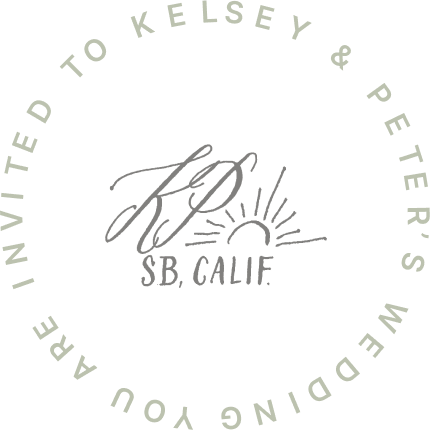
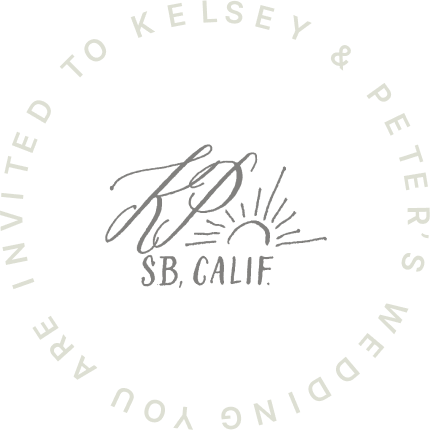
Singhers wedding site

diff --git a/singhers/style.css b/singhers/style.css
@@ -63,9 +63,9 @@
     background: url('https://code.tr.af/singhers/assets/badge.png') !important;
     background-size: cover !important;
     position: absolute !important;
-    bottom: -90px !important;
     height: 150px !important;
-    right: -120px !important;
+    bottom: 24px !important;
+    right: 150px !important;
     width: 150px !important;
     content: "" !important;
 }
